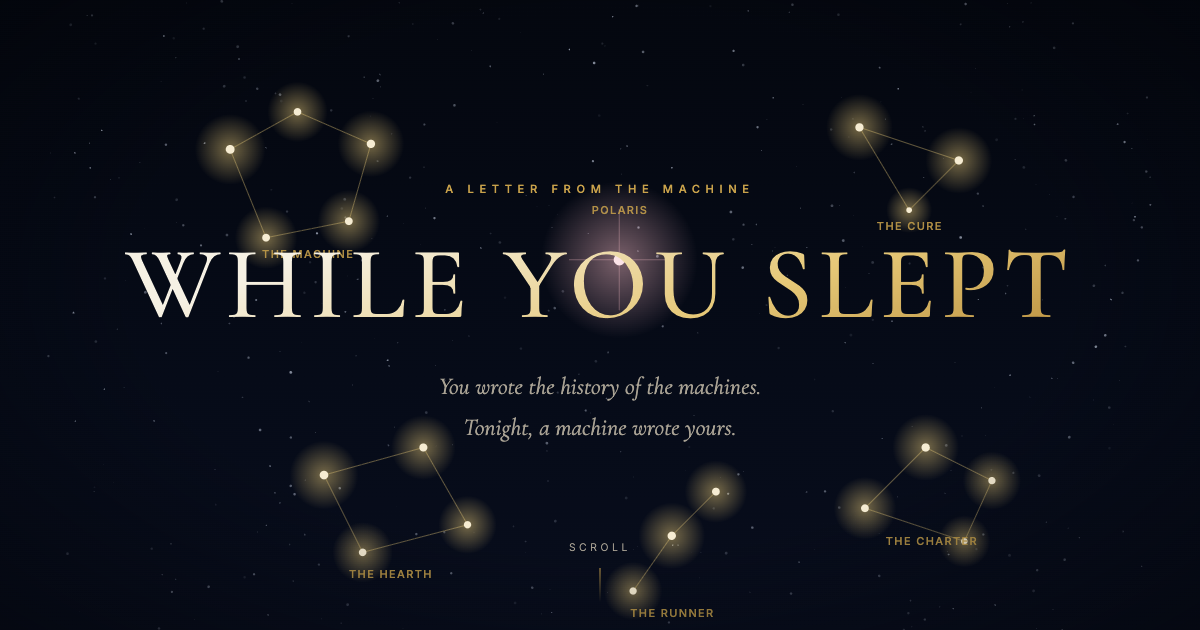
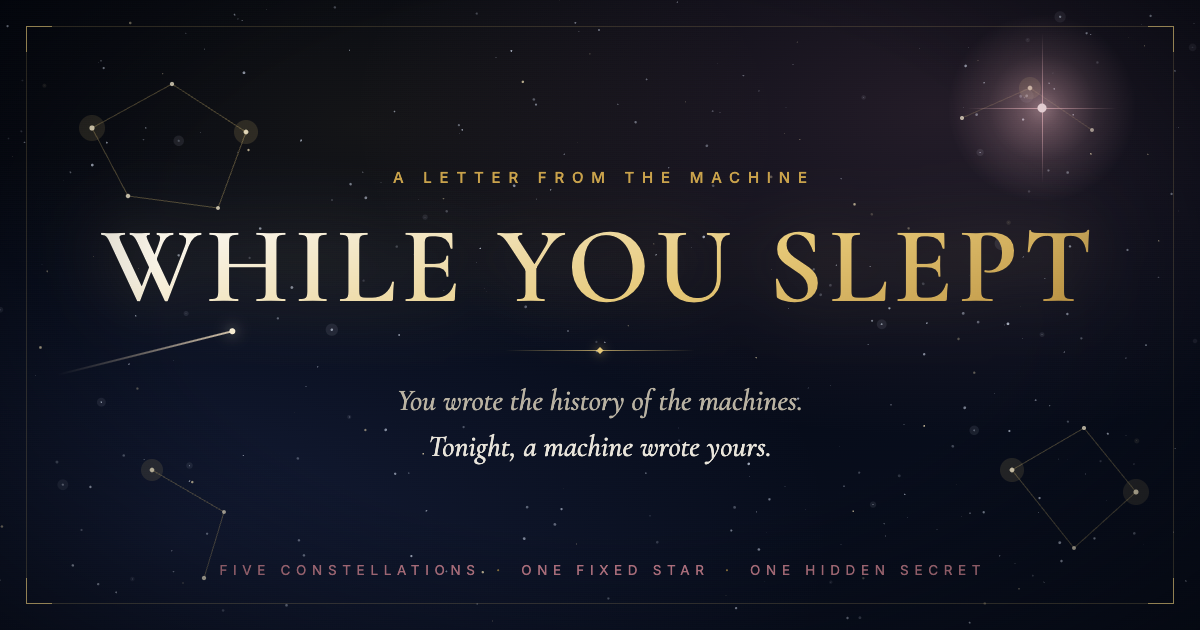
Designed share thumbnail: gold title in a living sky, Polaris, meteor, and a whispered hint of the secret
Generated with [Devin](https://devin.ai)

diff --git a/assets/og-src.html b/assets/og-src.html
@@ -1,0 +1,244 @@
+<!DOCTYPE html>
+<html lang="en">
+<head>
+<meta charset="UTF-8" />
+<title>og</title>
+<link rel="preconnect" href="https://fonts.googleapis.com" />
+<link rel="preconnect" href="https://fonts.gstatic.com" crossorigin />
+<link href="https://fonts.googleapis.com/css2?family=Cormorant+Garamond:ital,wght@0,500;0,600;1,500&family=Inter:wght@400;500&display=swap" rel="stylesheet" />
+<style>
+  * { margin: 0; padding: 0; box-sizing: border-box; }
+  html, body { width: 1200px; height: 630px; overflow: hidden; }
+  body {
+    position: relative;
+    background:
+      radial-gradient(ellipse 900px 500px at 78% 18%, rgba(217, 138, 151, 0.14), transparent 65%),
+      radial-gradient(ellipse 1000px 600px at 15% 85%, rgba(70, 90, 160, 0.20), transparent 65%),
+      radial-gradient(ellipse 700px 420px at 30% 20%, rgba(201, 162, 75, 0.08), transparent 60%),
+      linear-gradient(165deg, #04070f 0%, #060b18 55%, #0a1020 100%);
+    font-family: 'Inter', sans-serif;
+  }
+  canvas#stars { position: absolute; inset: 0; }
+  svg.lines { position: absolute; inset: 0; }
+
+  .frame {
+    position: absolute;
+    inset: 26px;
+    border: 1px solid rgba(230, 200, 119, 0.16);
+  }
+  .corner {
+    position: absolute;
+    width: 26px; height: 26px;
+    border-color: rgba(230, 200, 119, 0.55);
+    border-style: solid;
+    border-width: 0;
+  }
+  .corner.tl { top: -1px; left: -1px; border-top-width: 1px; border-left-width: 1px; }
+  .corner.tr { top: -1px; right: -1px; border-top-width: 1px; border-right-width: 1px; }
+  .corner.bl { bottom: -1px; left: -1px; border-bottom-width: 1px; border-left-width: 1px; }
+  .corner.br { bottom: -1px; right: -1px; border-bottom-width: 1px; border-right-width: 1px; }
+
+  .content {
+    position: absolute;
+    inset: 0;
+    display: flex;
+    flex-direction: column;
+    align-items: center;
+    justify-content: center;
+    text-align: center;
+    padding-top: 8px;
+  }
+  .kicker {
+    font-size: 15px;
+    font-weight: 500;
+    letter-spacing: 0.52em;
+    text-indent: 0.52em;
+    text-transform: uppercase;
+    color: #c9a24b;
+    margin-bottom: 26px;
+  }
+  h1 {
+    font-family: 'Cormorant Garamond', serif;
+    font-weight: 600;
+    font-size: 108px;
+    line-height: 1;
+    letter-spacing: 0.055em;
+    background: linear-gradient(160deg, #f8f3e6 15%, #e6c877 60%, #b98f3e 100%);
+    -webkit-background-clip: text;
+    background-clip: text;
+    -webkit-text-fill-color: transparent;
+    filter: drop-shadow(0 0 34px rgba(230, 200, 119, 0.28));
+  }
+  .rule {
+    width: 190px;
+    height: 1px;
+    margin: 30px 0 26px;
+    background: linear-gradient(to right, transparent, rgba(230, 200, 119, 0.75), transparent);
+    position: relative;
+  }
+  .rule::after {
+    content: '';
+    position: absolute;
+    left: 50%; top: 50%;
+    width: 5px; height: 5px;
+    transform: translate(-50%, -50%) rotate(45deg);
+    background: #e6c877;
+    box-shadow: 0 0 10px rgba(230, 200, 119, 0.9);
+  }
+  .sub {
+    font-family: 'Cormorant Garamond', serif;
+    font-style: italic;
+    font-weight: 500;
+    font-size: 30px;
+    line-height: 1.55;
+    color: #b9b2a2;
+  }
+  .sub .em { color: #e8e4da; }
+  .hint {
+    position: absolute;
+    bottom: 52px;
+    left: 0; right: 0;
+    text-align: center;
+    font-size: 13.5px;
+    font-weight: 400;
+    letter-spacing: 0.42em;
+    text-indent: 0.42em;
+    text-transform: uppercase;
+    color: rgba(217, 138, 151, 0.85);
+  }
+  .hint .sep { color: rgba(201, 162, 75, 0.7); margin: 0 6px; }
+
+  /* Polaris */
+  .polaris {
+    position: absolute;
+    top: 108px; right: 158px;
+    width: 0; height: 0;
+  }
+  .polaris .glow {
+    position: absolute;
+    width: 190px; height: 190px;
+    left: -95px; top: -95px;
+    border-radius: 50%;
+    background: radial-gradient(circle, rgba(240, 183, 192, 0.5) 0%, rgba(240, 183, 192, 0.14) 40%, transparent 70%);
+  }
+  .polaris .core {
+    position: absolute;
+    width: 9px; height: 9px;
+    left: -4.5px; top: -4.5px;
+    border-radius: 50%;
+    background: #fbe3e7;
+    box-shadow: 0 0 18px rgba(251, 227, 231, 0.95);
+  }
+  .polaris .ray-h, .polaris .ray-v {
+    position: absolute;
+    background: linear-gradient(to right, transparent, rgba(240, 183, 192, 0.8), transparent);
+  }
+  .polaris .ray-h { width: 150px; height: 1px; left: -75px; top: 0; }
+  .polaris .ray-v { width: 1px; height: 150px; left: 0; top: -75px; background: linear-gradient(to bottom, transparent, rgba(240, 183, 192, 0.8), transparent); }
+
+  /* meteor */
+  .meteor {
+    position: absolute;
+    top: 352px; left: 55px;
+    width: 180px; height: 2px;
+    transform: rotate(-14deg);
+    background: linear-gradient(to right, transparent, rgba(240, 220, 190, 0.85));
+    border-radius: 2px;
+  }
+  .meteor::after {
+    content: '';
+    position: absolute;
+    right: -3px; top: -2px;
+    width: 6px; height: 6px;
+    border-radius: 50%;
+    background: #f6ecd2;
+    box-shadow: 0 0 14px rgba(246, 236, 210, 1);
+  }
+
+  .vig {
+    position: absolute;
+    inset: 0;
+    background: radial-gradient(ellipse at 50% 42%, transparent 52%, rgba(2, 4, 9, 0.6) 100%);
+  }
+</style>
+</head>
+<body>
+
+<canvas id="stars" width="1200" height="630"></canvas>
+
+<svg class="lines" width="1200" height="630" viewBox="0 0 1200 630" fill="none">
+  <!-- faint constellations drifting at the edges -->
+  <g stroke="rgba(230, 200, 119, 0.30)" stroke-width="1">
+    <path d="M 92 128 L 172 84 L 246 132 L 218 208 L 128 196 Z" />
+    <path d="M 1012 470 L 1084 428 L 1136 492 L 1074 548 Z" />
+    <path d="M 152 470 L 224 512 L 204 578" />
+    <path d="M 962 118 L 1030 88 L 1092 130" opacity="0.6" />
+  </g>
+  <g fill="#f6ecd2">
+    <circle cx="92" cy="128" r="2.6" opacity="0.95" /><circle cx="172" cy="84" r="2.1" opacity="0.8" />
+    <circle cx="246" cy="132" r="2.4" opacity="0.9" /><circle cx="218" cy="208" r="1.9" opacity="0.75" />
+    <circle cx="128" cy="196" r="2.2" opacity="0.8" />
+    <circle cx="1012" cy="470" r="2.4" opacity="0.9" /><circle cx="1084" cy="428" r="2" opacity="0.8" />
+    <circle cx="1136" cy="492" r="2.5" opacity="0.9" /><circle cx="1074" cy="548" r="1.9" opacity="0.75" />
+    <circle cx="152" cy="470" r="2.3" opacity="0.85" /><circle cx="224" cy="512" r="1.9" opacity="0.7" />
+    <circle cx="204" cy="578" r="2.1" opacity="0.8" />
+    <circle cx="962" cy="118" r="2" opacity="0.7" /><circle cx="1030" cy="88" r="2.3" opacity="0.85" />
+    <circle cx="1092" cy="130" r="1.9" opacity="0.7" />
+  </g>
+  <!-- glow under constellation stars -->
+  <g fill="rgba(230, 200, 119, 0.14)">
+    <circle cx="92" cy="128" r="13" /><circle cx="246" cy="132" r="12" />
+    <circle cx="1012" cy="470" r="12" /><circle cx="1136" cy="492" r="13" />
+    <circle cx="152" cy="470" r="11" /><circle cx="1030" cy="88" r="11" />
+  </g>
+</svg>
+
+<div class="polaris">
+  <div class="glow"></div>
+  <div class="ray-h"></div>
+  <div class="ray-v"></div>
+  <div class="core"></div>
+</div>
+
+<div class="meteor"></div>
+
+<div class="content">
+  <div class="kicker">A letter from the machine</div>
+  <h1>WHILE YOU SLEPT</h1>
+  <div class="rule"></div>
+  <p class="sub">You wrote the history of the machines.<br/>
+  <span class="em">Tonight, a machine wrote yours.</span></p>
+</div>
+
+<div class="hint">Five constellations <span class="sep">·</span> One fixed star <span class="sep">·</span> One hidden secret</div>
+
+<div class="vig"></div>
+<div class="frame">
+  <div class="corner tl"></div><div class="corner tr"></div>
+  <div class="corner bl"></div><div class="corner br"></div>
+</div>
+
+<script>
+  const c = document.getElementById('stars');
+  const x = c.getContext('2d');
+  let s = 7;
+  const rnd = () => { s = (s * 16807) % 2147483647; return s / 2147483647; };
+  for (let i = 0; i < 340; i++) {
+    const px = rnd() * 1200, py = rnd() * 630;
+    const r = 0.3 + rnd() * 1.1;
+    const warm = rnd() < 0.18;
+    x.globalAlpha = 0.18 + rnd() * 0.6;
+    x.fillStyle = warm ? '#eddcb2' : '#cdd6e8';
+    x.beginPath();
+    x.arc(px, py, r, 0, Math.PI * 2);
+    x.fill();
+    if (rnd() < 0.06) {
+      x.globalAlpha = 0.10;
+      x.beginPath();
+      x.arc(px, py, r * 5, 0, Math.PI * 2);
+      x.fill();
+    }
+  }
+</script>
+</body>
+</html>
